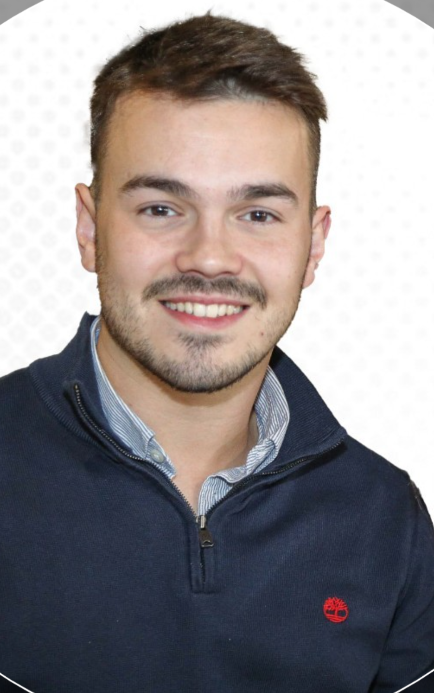
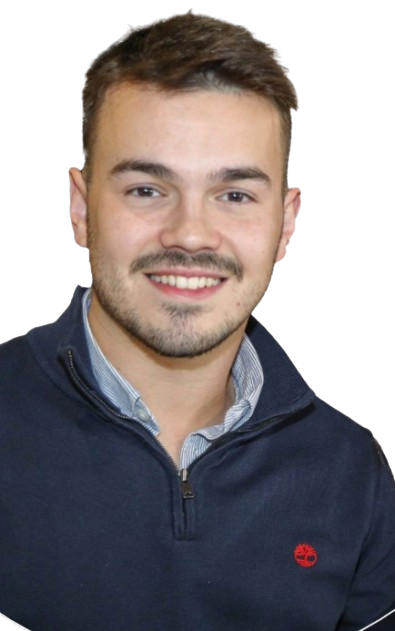
a

diff --git a/styles.css b/styles.css
@@ -51,7 +51,8 @@ section {
 
 /* Styling for images */
 .profile-pic {
-    scale: 0.4;
+    width: 10%;
+    height: auto;
     margin-bottom: 5px;
 }
 
